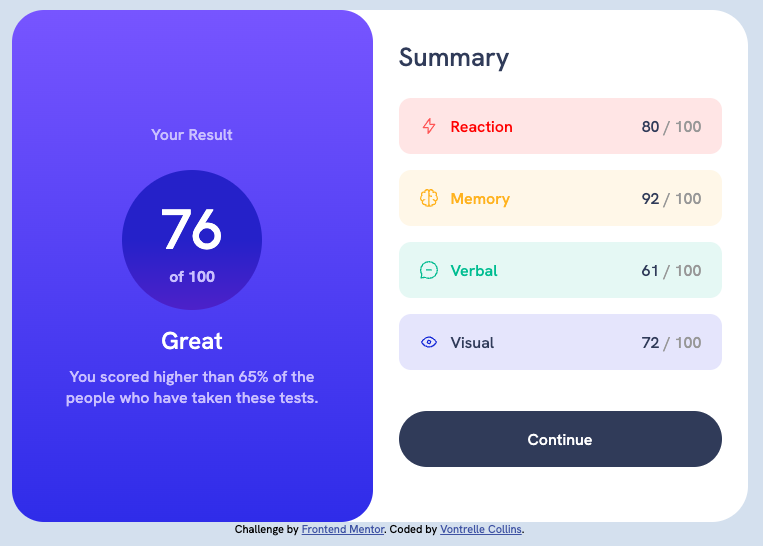
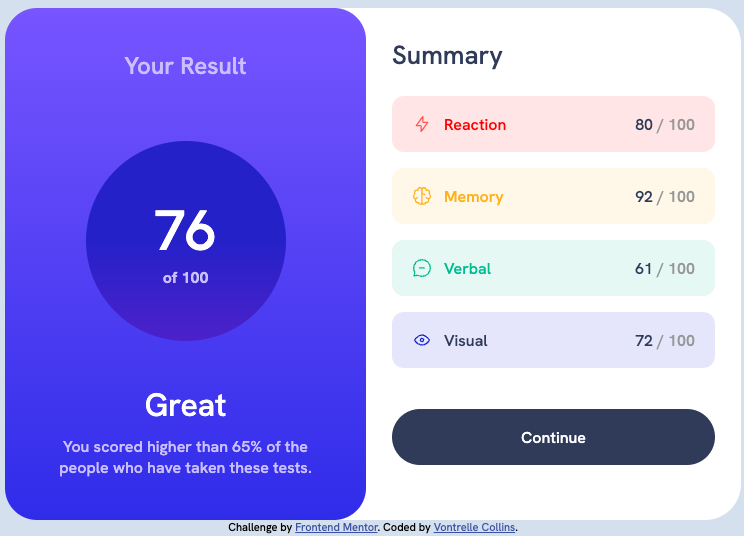
CSS changes for desktop view

diff --git a/assets/css/main.css b/assets/css/main.css
@@ -158,6 +158,21 @@ body {
     border-radius: 32px;
   }
 
+  .card__result--title {
+    font-size: 24px;
+  }
+
+  .card__result__message--title {
+    font-size: 32px;
+  }
+
+  .card__display {
+    width: 200px;
+    height: 200px;
+    margin-top: 35px;
+    margin-bottom: 28px;
+  }
+
   .card__summary {
     margin: auto 0;
   }
